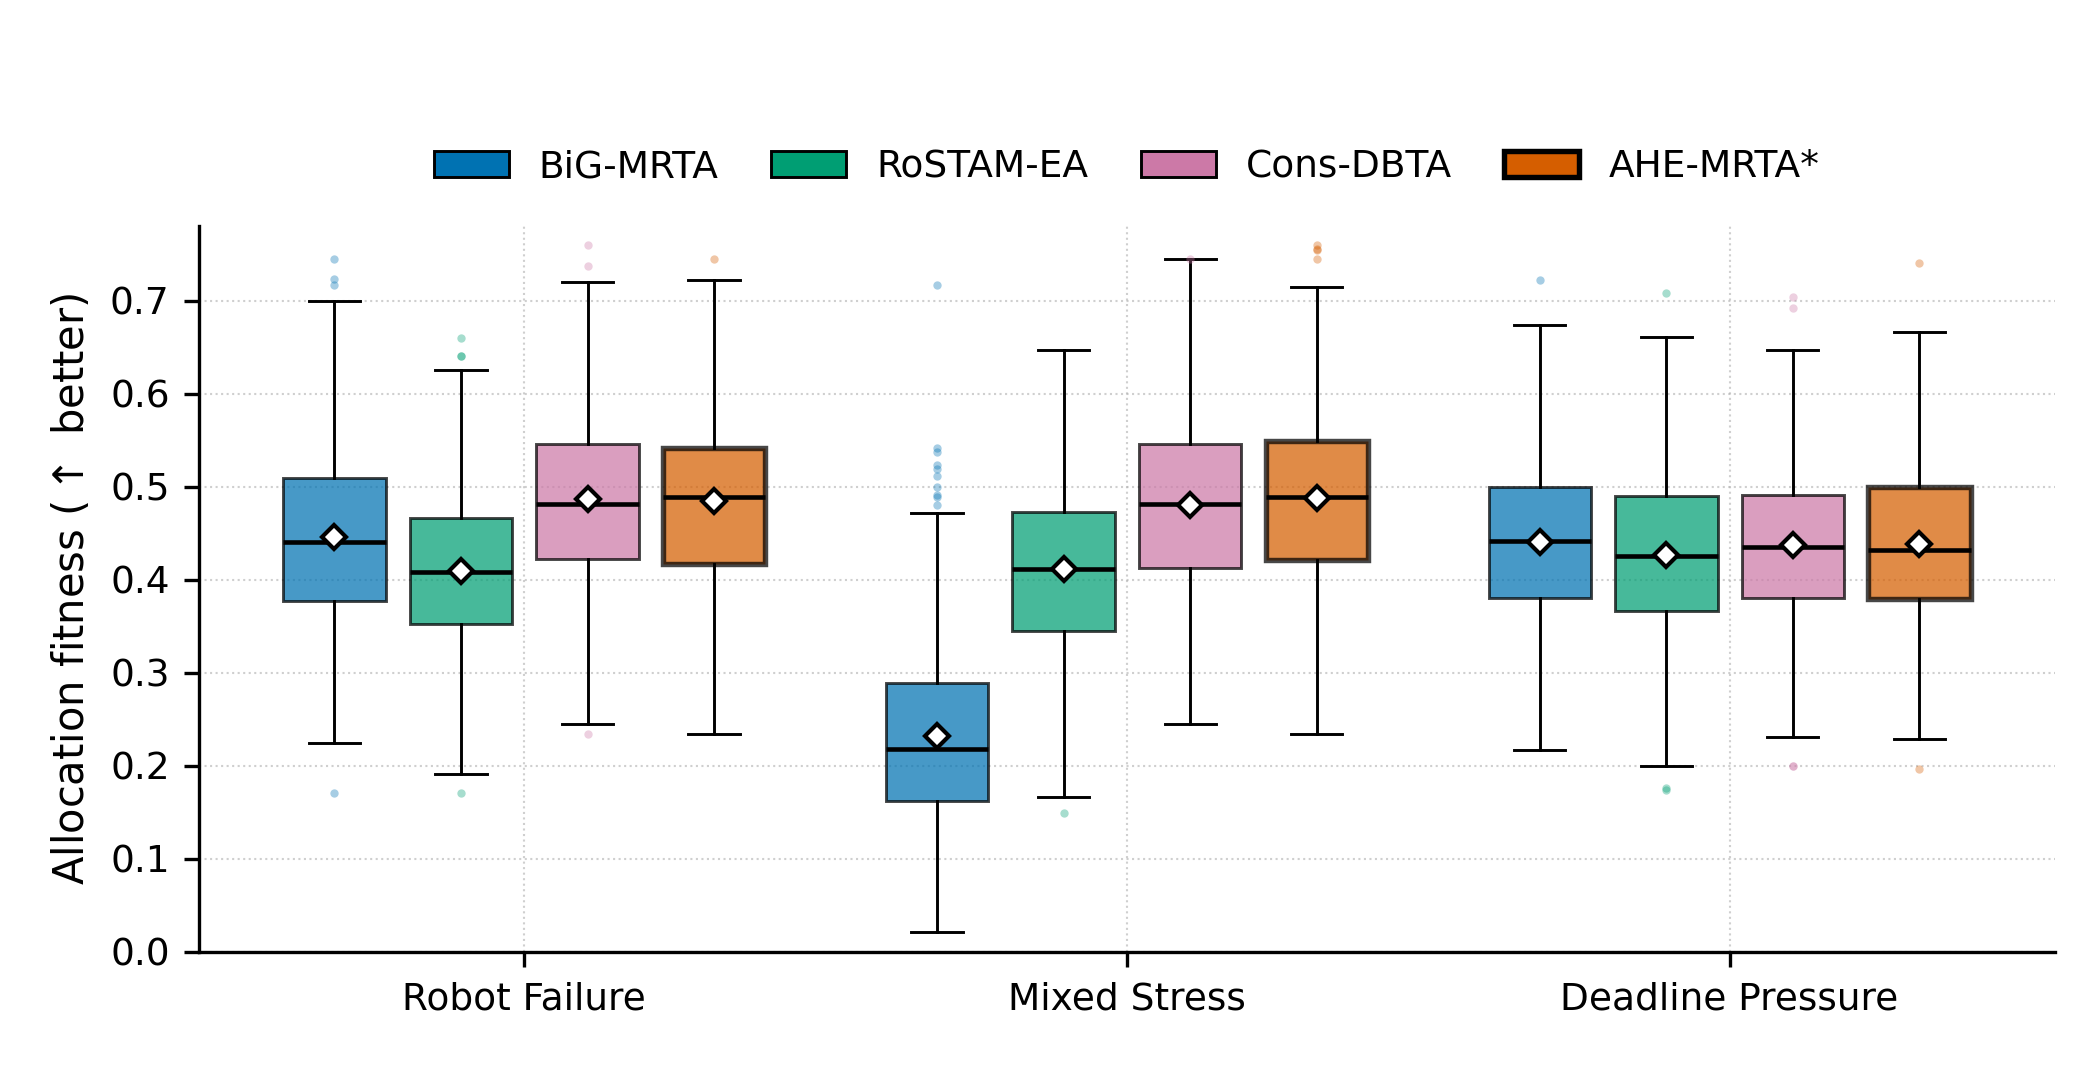
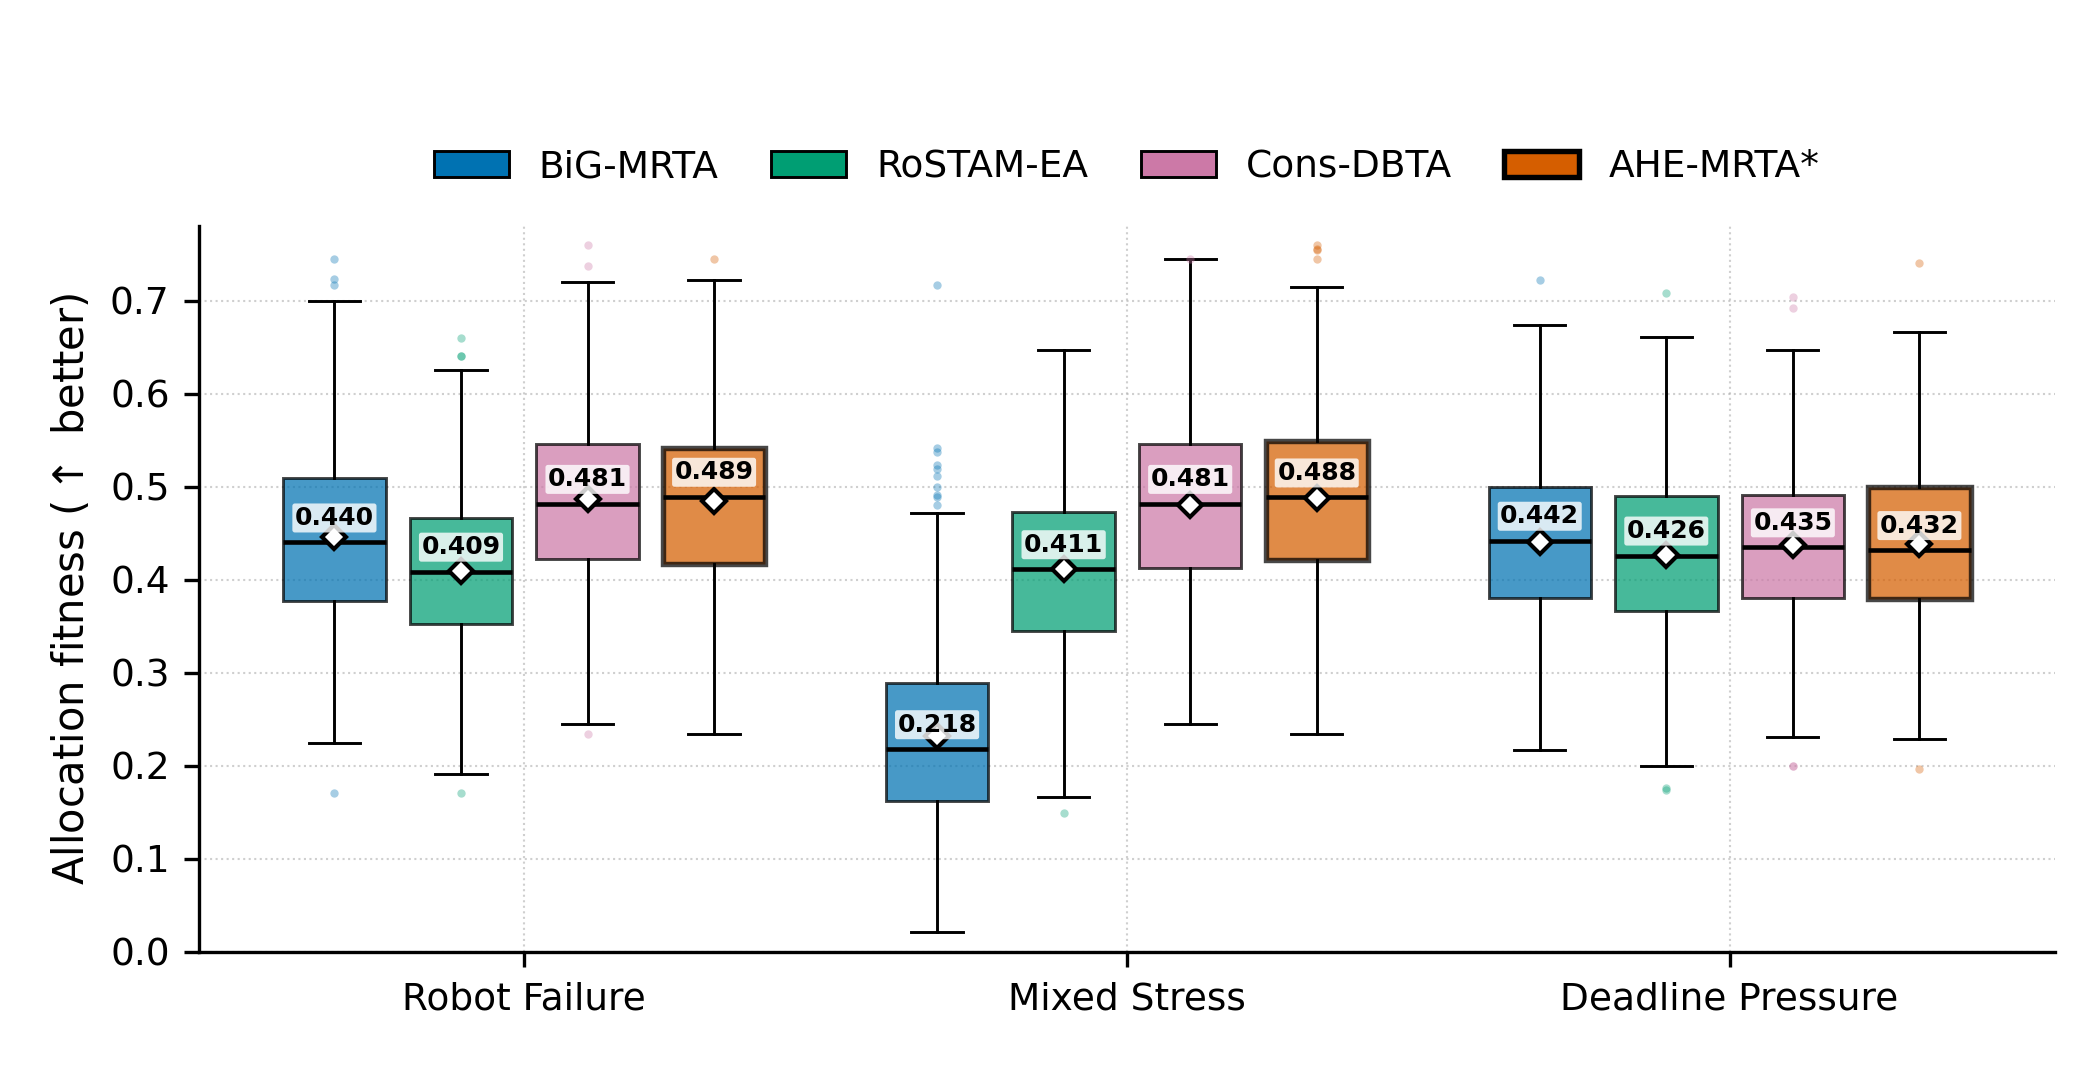
Paper: annotate median values on Fig 4 fitness boxes (EN+TR)
Each of the 12 boxes in the navigation-proxy fitness comparison now
carries its numeric median above the median line (white-backed label,
same style as the instability panel), so the co-leadership deltas can
be read off directly instead of estimated from the axis. Captions note
the annotation; PDFs recompiled clean (EN 22 pp, TR 23 pp).

diff --git a/scripts/plot_results.py b/scripts/plot_results.py
@@ -665,6 +665,16 @@ def plot_fitness_comparison(processed_dir: Path, out_dir: Path, dpi: int) -> Non
             )
             for box in bp["boxes"]:
                 box.set_linewidth(1.3 if m == PROPOSED else 0.7)
+            # numeric median label above each box (white background so it
+            # stays readable over the box fill and the mean diamond)
+            for pos, vals in zip(positions, samples):
+                med = float(np.median(vals))
+                ax.annotate(f"{med:.3f}", xy=(pos, med), xytext=(0, 3),
+                            textcoords="offset points", ha="center",
+                            va="bottom", fontsize=6, fontweight="bold",
+                            zorder=6,
+                            bbox=dict(boxstyle="round,pad=0.1", fc="white",
+                                      ec="none", alpha=0.8))
         legend_handles = [
             mpatches.Patch(facecolor=METHOD_PALETTE[m], edgecolor="black",
                            linewidth=1.3 if m == PROPOSED else 0.7,

diff --git a/paper/main_tr.tex b/paper/main_tr.tex
@@ -909,8 +909,9 @@ sonuçlarını özetler.
   \includegraphics[width=0.66\textwidth]{fitness_comparison.png}
   \caption{Birincil 5-robot/25-görev ölçeğinde stokastik navigasyon vekili
   uygunluğu (hücre başına 500 tohum). Kutular çeyrekler arası aralığı, orta
-  çizgiler medyanı, eşkenar dörtgenler ortalamayı ve bıyıklar 1.5 çeyrekler
-  arası aralığı; noktalar aykırı değerleri gösterir. AHE-MRTA ile
+  çizgiler medyanı (değeri her kutunun üzerinde yazılıdır), eşkenar dörtgenler
+  ortalamayı ve bıyıklar 1.5 çeyrekler arası aralığı; noktalar aykırı
+  değerleri gösterir. AHE-MRTA ile
   Consensus-DBTA robot arızası ve deadline baskısında istatistiksel olarak
   eşittir (eşli Wilcoxon $p\geq0.391$); tek anlamlı ayrışma karışık streste
   AHE-MRTA'nın 0.007'lik önderliğidir ($p{=}0.042$).}

diff --git a/paper/main.tex b/paper/main.tex
@@ -896,8 +896,8 @@ proxy results.
   \includegraphics[width=0.66\textwidth]{fitness_comparison.png}
   \caption{Navigation-proxy fitness at the primary 5-robot/25-task scale
   (500 seeds per cell). Boxes show the interquartile range, centre lines the
-  median, diamonds the mean, and whiskers 1.5 interquartile ranges; points are
-  outliers. AHE-MRTA and Consensus-DBTA are statistically tied under robot
+  median (value annotated above each box), diamonds the mean, and whiskers
+  1.5 interquartile ranges; points are outliers. AHE-MRTA and Consensus-DBTA are statistically tied under robot
   failure and deadline pressure (paired Wilcoxon $p\geq0.391$); the only
   significant separation is mixed stress, where AHE-MRTA leads by 0.007
   ($p{=}0.042$).}